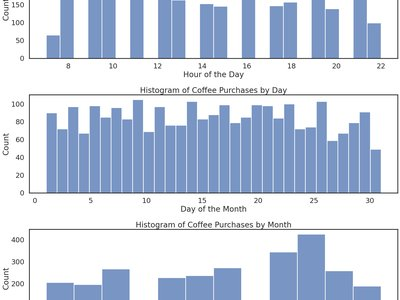
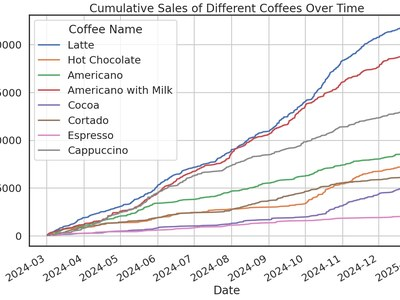
feat: add specific chart thumbnails to all AI project cards

diff --git a/js/models/projects.js b/js/models/projects.js
@@ -9,7 +9,7 @@ const projects = [
     description: "Engineered solution expansion pathways through seed diversity and entropy-weighted voting systems for final answer selection. Worked with NVIDIA H100 GPUs and OpenAI GPT-OSS-120B. Writing academic paper on the prompt engineering methodology.",
     link: "https://www.kaggle.com/gregkoja",
     linkLabel: "View on Kaggle",
-    thumb: null
+    thumb: "../assets/images/thumbnails/thumb-aimo3-placement.jpg"
   },
   {
     title: "AIMO2 — DeepSeek R1 Fine-Tuning",
@@ -18,7 +18,7 @@ const projects = [
     description: "Fine-tuned a distilled DeepSeek R1 LLM using four NVIDIA L4 GPUs with CUDA to answer AI Mathematical Olympiad problems. Performed prompt engineering and model building in HuggingFace.",
     link: "https://www.kaggle.com/code/gregkoja/prompt-engineering-deepseek-r1-aimo",
     linkLabel: "View on Kaggle",
-    thumb: null
+    thumb: "../assets/images/thumbnails/thumb-aimo2-inference.jpg"
   },
   {
     title: "Color Wheel — iOS App",